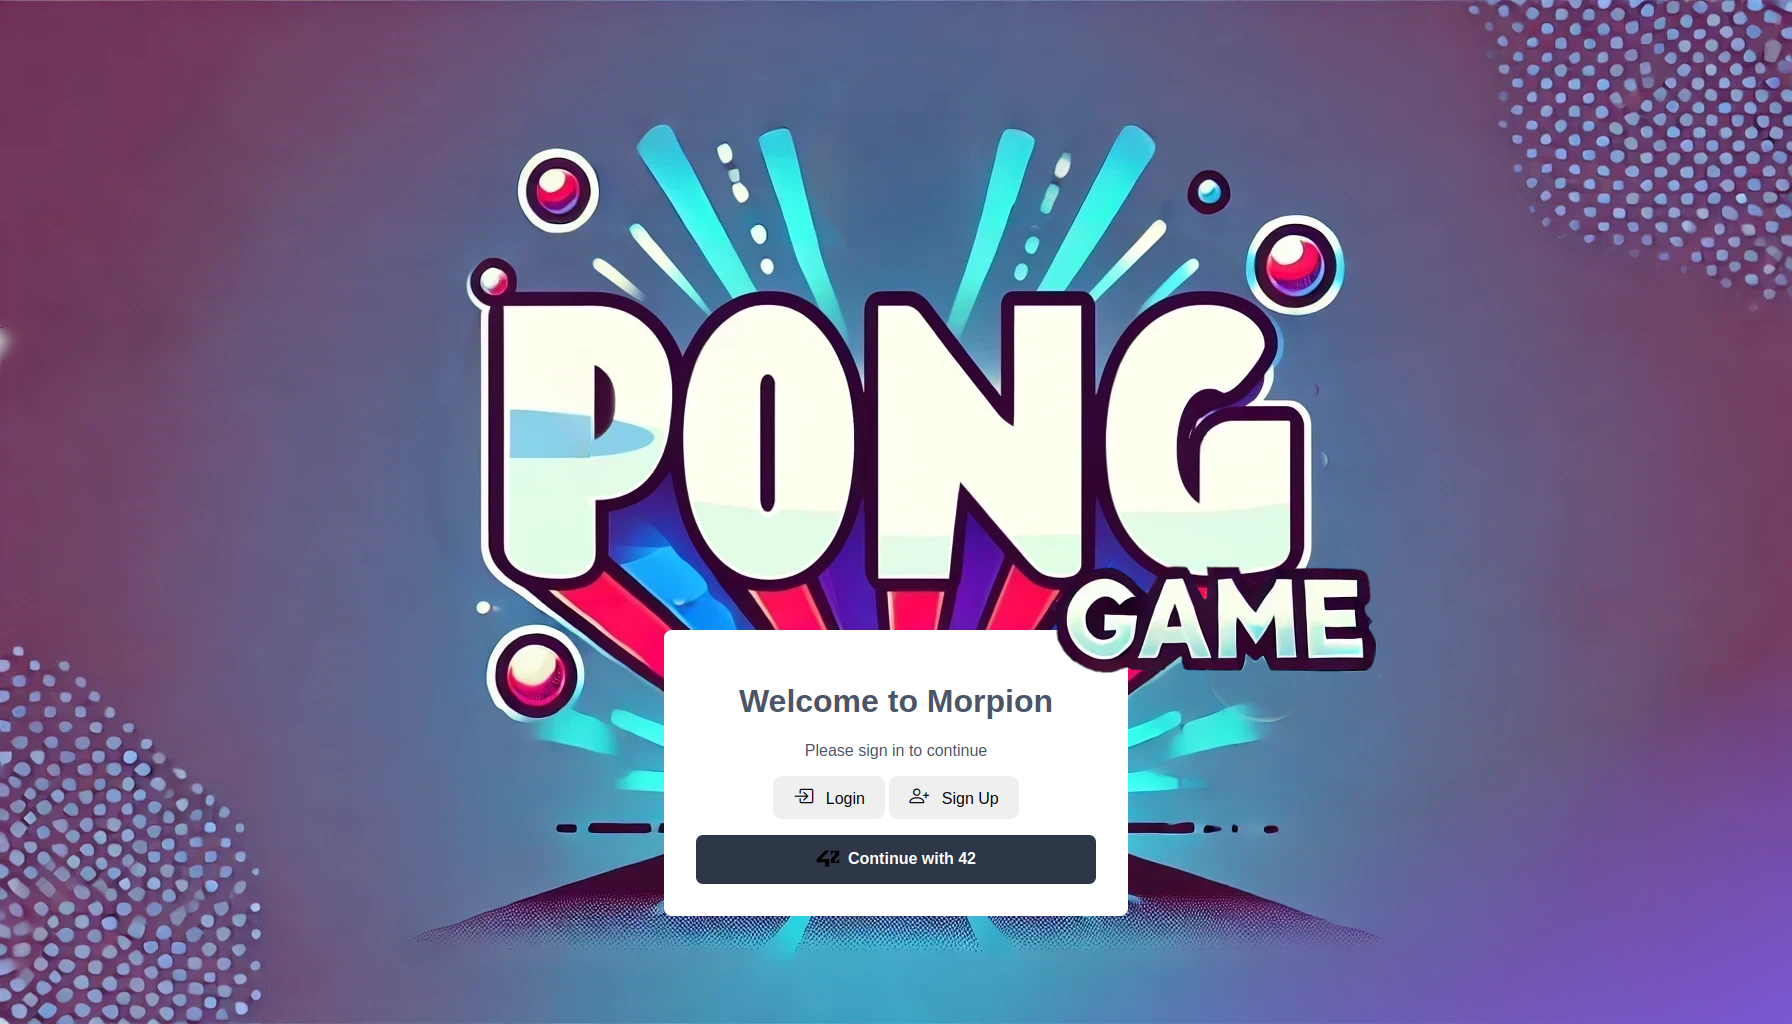
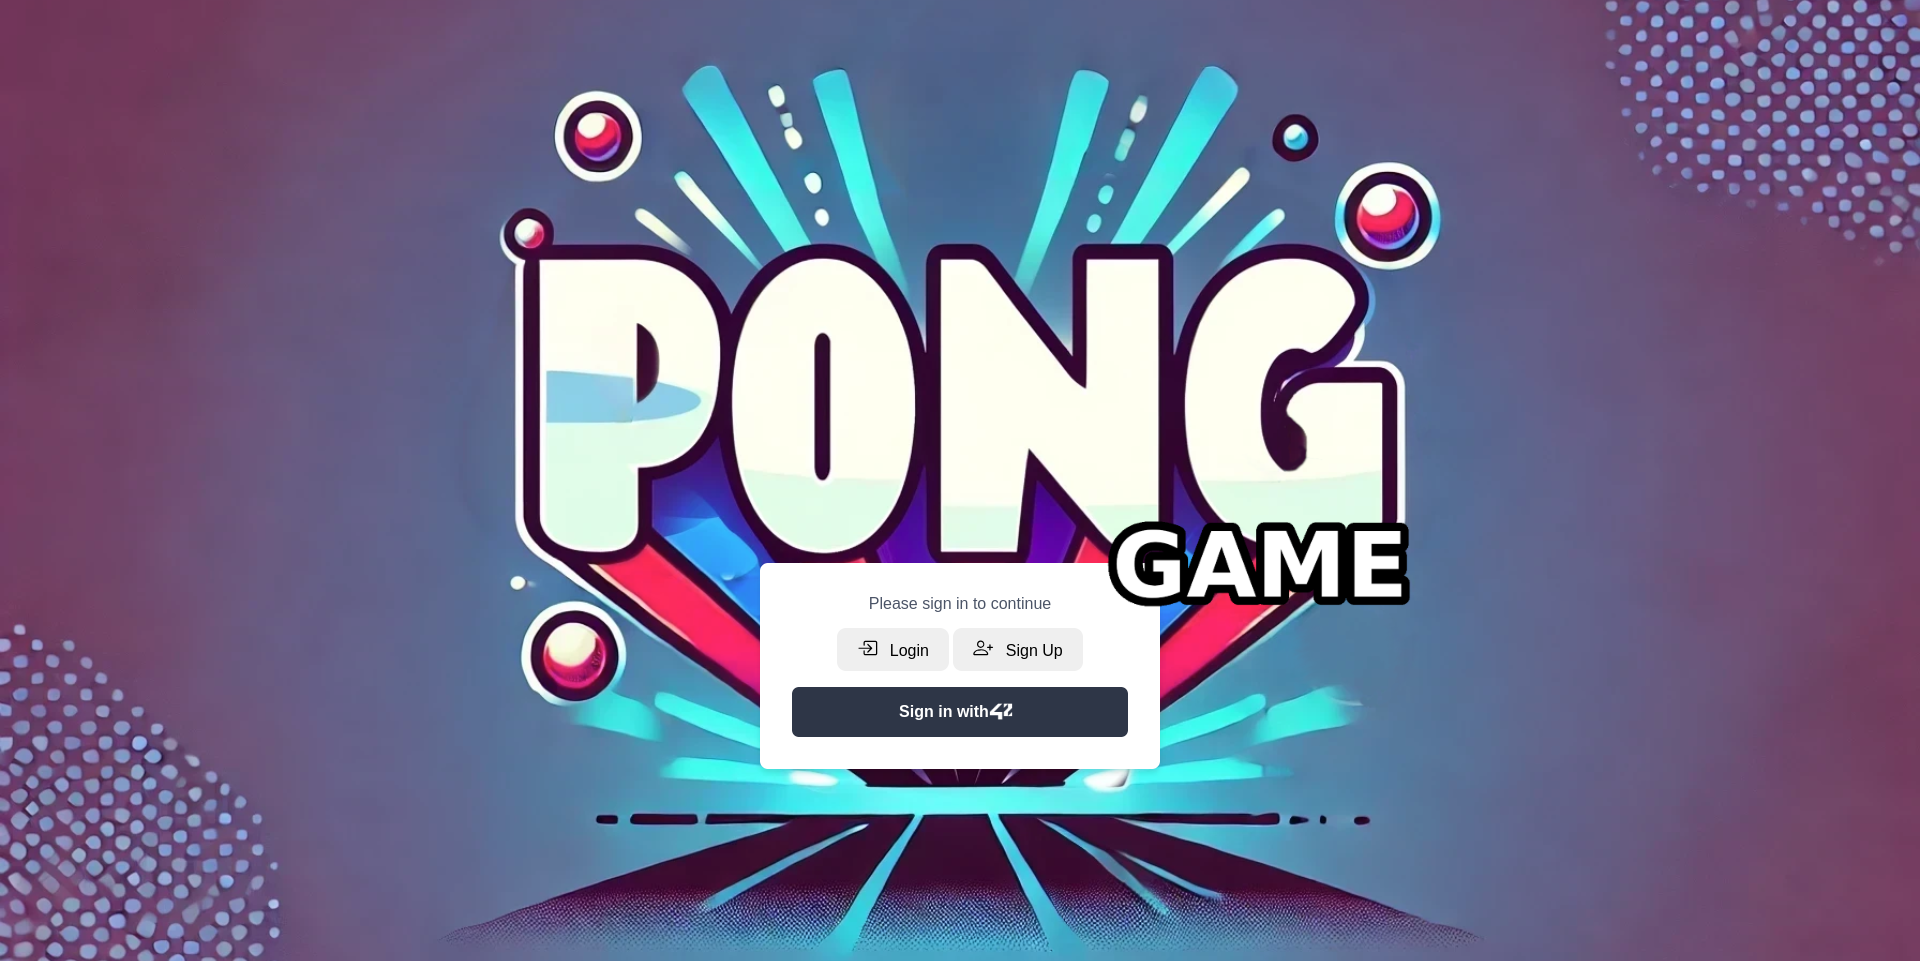
New screenshot home

diff --git a/conecte_me/frontend/static/css/main.css b/conecte_me/frontend/static/css/main.css
@@ -32,10 +32,10 @@ body {
 /* Titre au dessus */
 .title-block {
   margin-left: 600px;
-  margin-top: 340px;
+  position: relative;
+  top: 5cm; /* Descend le bloc de 3 cm */
   position: relative; /* Assurez-vous que l'élément peut être déplacé */
   animation: bounce 1.3s infinite; /* Animation continue */
-
 }
 
 /* Image du titre (Pong) */
@@ -55,6 +55,7 @@ body {
   box-shadow: 0 4px 6px rgba(0, 0, 0, 0.1);
   padding: 2rem;
   /* On peut ajouter un petit décalage avec margin-top si besoin */
+  margin-top: 3cm; /* Remonte de 2 cm */
   margin-bottom: 5px;
 }
 
